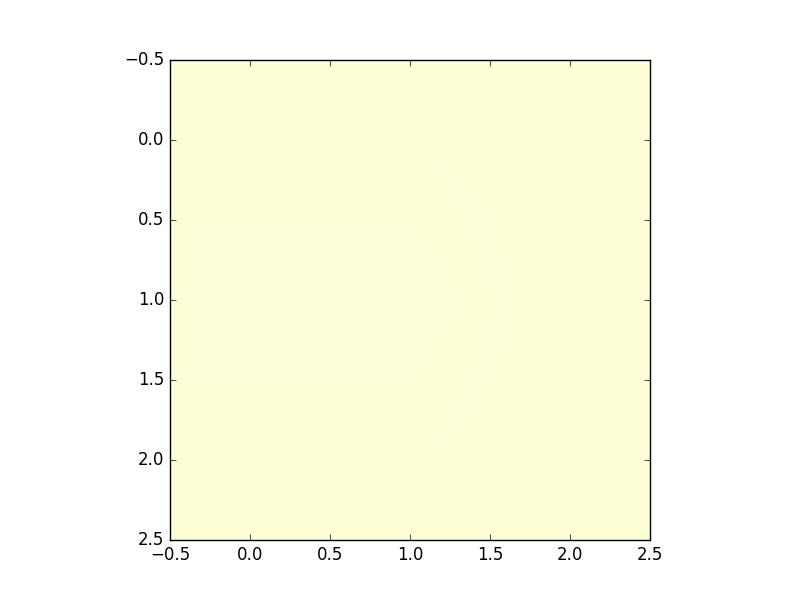
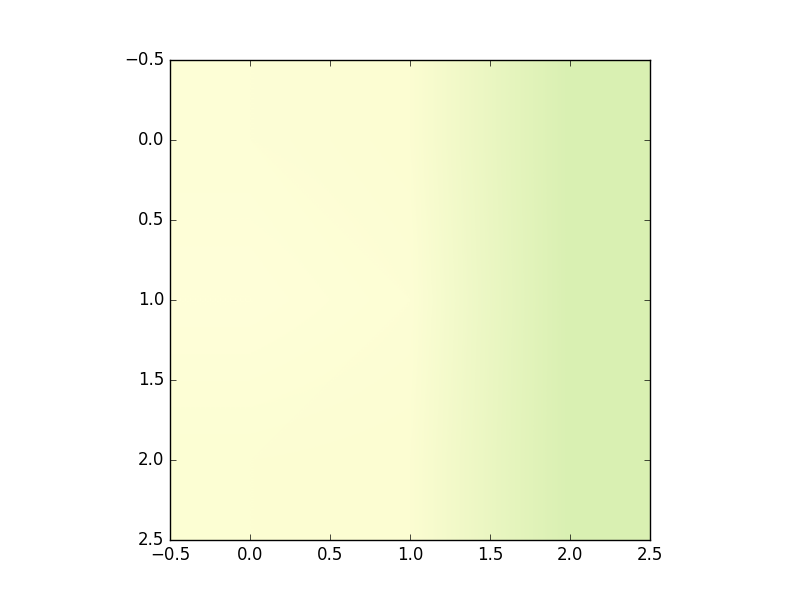
Fixed as per Raoul's email 17 Sept 2016

Changed region(s): [[0.625, 0.09, 0.8125, 0.9]]

diff --git a/simulations/03_02plusSediments/postprocessing/pp.py b/simulations/03_02plusSediments/postprocessing/pp.py
@@ -9,7 +9,7 @@ n3 = 3
 n4 = 3
 nt = 1461
 nz = 90
-nr = 5 # responses
+nr = 4 # responses
 
 a = np.ndarray((n1, n2, n3, n4, nt, nz, nr), dtype=np.float) * np.nan
 
@@ -20,16 +20,16 @@ for i, x1, x2, x3, x4, id in d.itertuples():
     chl = pd.read_csv('../simulations/id/{:02d}/chl.csv.bz2'.format(id), header=None).as_matrix()
     tp = pd.read_csv('../simulations/id/{:02d}/totp.csv.bz2'.format(id), header=None).as_matrix()
     o2a = pd.read_csv('../simulations/id/{:02d}/O2abs.csv.bz2'.format(id), header=None).as_matrix()
-    o2r = pd.read_csv('../simulations/id/{:02d}/O2rel.csv.bz2'.format(id), header=None).as_matrix()
+    # o2r = pd.read_csv('../simulations/id/{:02d}/O2rel.csv.bz2'.format(id), header=None).as_matrix()
     a[x1-1, x2-1, x3-1, x4-1, :, :, 0] = t
     a[x1-1, x2-1, x3-1, x4-1, :, :, 1] = chl
     a[x1-1, x2-1, x3-1, x4-1, :, :, 2] = tp
     a[x1-1, x2-1, x3-1, x4-1, :, :, 3] = o2a
-    a[x1-1, x2-1, x3-1, x4-1, :, :, 4] = o2r
+    # a[x1-1, x2-1, x3-1, x4-1, :, :, 4] = o2r
 
 
 ## maximum chl in last year
-r1 = a[:, :, :, :, (365*3):, 0, 1].max(axis=4)
+r1 = a[:, :, :, :, (365*3+180):(365*3+270), 0, 1].mean(axis=4)
 r1max = r1.max() ; r1min = r1.min()
 
 ## number days surface anoxia in last year
@@ -37,44 +37,65 @@ r2 = (a[:, :, :, :, (365*3):, 0, 3] < 0.01).sum(axis=4)
 r2max = r1.max() ; r2min = r2.min()
 
 
-cm = plt.get_cmap('YlGnBu')
+cmr = plt.get_cmap('Reds')
+normr = matplotlib.colors.Normalize(r1.min(), r1.max(), True)
+
+cmg = plt.get_cmap('Greens')
+normg = matplotlib.colors.Normalize(r2.min(), r2.max(), True)
+
+
 
 ## T, TP, TPR, DOC on CHL, ANOXIA
 ## figures 
-fig = plt.figure() ; ax = fig.add_subplot(111)
-ax.imshow(r1[:, :, 0, 0], vmin=r1min, vmax=r1max, cmap=cm)
-fig.savefig('../figures/T+TP on chl.png')
-fig = plt.figure() ; ax = fig.add_subplot(111)
-ax.imshow(r1[:, 0, :, 0], vmin=r1min, vmax=r1max, cmap=cm)
-fig.savefig('../figures/T+TPR on chl.png')
-fig = plt.figure() ; ax = fig.add_subplot(111)
-ax.imshow(r1[:, 0, 0, :], vmin=r1min, vmax=r1max, cmap=cm)
-fig.savefig('../figures/T+DOC on chl.png')
-fig = plt.figure() ; ax = fig.add_subplot(111)
-ax.imshow(r1[0, :, :, 0], vmin=r1min, vmax=r1max, cmap=cm)
-fig.savefig('../figures/TP+TPR on chl.png')
-fig = plt.figure() ; ax = fig.add_subplot(111)
-ax.imshow(r1[0, :, 0, :], vmin=r1min, vmax=r1max, cmap=cm)
-fig.savefig('../figures/TP+DOC on chl.png')
-fig = plt.figure() ; ax = fig.add_subplot(111)
-ax.imshow(r1[0, 0, :, :], vmin=r1min, vmax=r1max, cmap=cm)
-fig.savefig('../figures/TPR+DOC on chl.png')
+## fig = plt.figure()
 
-fig = plt.figure() ; ax = fig.add_subplot(111)
-ax.imshow(r2[:, :, 0, 0], vmin=r2min, vmax=r2max, cmap=cm)
-fig.savefig('../figures/T+TP on anoxia.png')
-fig = plt.figure() ; ax = fig.add_subplot(111)
-ax.imshow(r2[:, 0, :, 0], vmin=r2min, vmax=r2max, cmap=cm)
-fig.savefig('../figures/T+TPR on anoxia.png')
-fig = plt.figure() ; ax = fig.add_subplot(111)
-ax.imshow(r2[:, 0, 0, :], vmin=r2min, vmax=r2max, cmap=cm)
-fig.savefig('../figures/T+DOC on anoxia.png')
-fig = plt.figure() ; ax = fig.add_subplot(111)
-ax.imshow(r2[0, :, :, 0], vmin=r2min, vmax=r2max, cmap=cm)
-fig.savefig('../figures/TP+TPR on anoxia.png')
-fig = plt.figure() ; ax = fig.add_subplot(111)
-ax.imshow(r2[0, :, 0, :], vmin=r2min, vmax=r2max, cmap=cm)
-fig.savefig('../figures/TP+DOC on anoxia.png')
-fig = plt.figure() ; ax = fig.add_subplot(111)
-ax.imshow(r2[0, 0, :, :], vmin=r2min, vmax=r2max, cmap=cm)
-fig.savefig('../figures/TPR+DOC on anoxia.png')
+fig1, ((a1, a2, a3), (a4, a5, a6), (a7, a8, a9), (a10, a11, a12)) = \
+plt.subplots(nrows=4, ncols=3)
+
+fig1.set_size_inches((8, 10))
+
+a4.imshow(r1[:, :, 0, 0].transpose(), cmap=cmg, norm=normg, origin='lower', interpolation='none')
+# # fig.savefig('../figures/T+TP on chl.png')
+a6.imshow(r1[:, 0, :, 0].transpose(), cmap=cmg, norm=normg, origin='lower', interpolation='none')
+# # fig.savefig('../figures/T+TPR on chl.png')
+a2.imshow(r1[:, 0, 0, :].transpose(), cmap=cmg, norm=normg, origin='lower', interpolation='none')
+# fig.savefig('../figures/T+DOC on chl.png')
+a10.imshow(r1[1, :, :, 0].transpose(), cmap=cmg, norm=normg, origin='lower', interpolation='none')
+# fig.savefig('../figures/TP+TPR on chl.png')
+a8.imshow(r1[1, :, 0, :].transpose(), cmap=cmg, norm=normg, origin='lower', interpolation='none')
+# fig.savefig('../figures/TP+DOC on chl.png')
+a12.imshow(r1[1, 0, :, :].transpose(), cmap=cmg, norm=normg, origin='lower', interpolation='none')
+# fig.savefig('../figures/TPR+DOC on chl.png')
+
+a3.imshow(r2[:, :, 0, 0].transpose(), cmap=cmr, norm=normr, origin='lower', interpolation='none')
+# fig.savefig('../figures/T+TP on anoxia.png')
+a5.imshow(r2[:, 0, :, 0].transpose(), cmap=cmr, norm=normr, origin='lower', interpolation='none')
+# fig.savefig('../figures/T+TPR on anoxia.png')
+a1.imshow(r2[:, 0, 0, :].transpose(), cmap=cmr, norm=normr, origin='lower', interpolation='none')
+# fig.savefig('../figures/T+DOC on anoxia.png')
+a9.imshow(r2[1, :, :, 0].transpose(), cmap=cmr, norm=normr, origin='lower', interpolation='none')
+# fig.savefig('../figures/TP+TPR on anoxia.png')
+a7.imshow(r2[1, :, 0, :].transpose(), cmap=cmr, norm=normr, origin='lower', interpolation='none')
+# fig.savefig('../figures/TP+DOC on anoxia.png')
+a11.imshow(r2[1, 0, :, :].transpose(), cmap=cmr, norm=normr, origin='lower', interpolation='none')
+# fig.savefig('../figures/TPR+DOC on anoxia.png')
+
+a1.text(1.0, -0.7, 'T', ha='center', va='center') ; a1.text(-0.5, 1.0, 'DOC', va='center', ha='right', rotation='vertical')
+a2.text(1.0, -0.7, 'T', ha='center', va='center') ; a2.text(-0.5, 1.0, 'DOC', va='center', ha='right', rotation='vertical')
+a3.text(1.0, -0.7, 'T', ha='center', va='center') ; a3.text(-0.5, 1.0, 'TP', va='center', ha='right', rotation='vertical')
+a4.text(1.0, -0.7, 'T', ha='center', va='center') ; a4.text(-0.5, 1.0, 'TP', va='center', ha='right', rotation='vertical')
+a5.text(1.0, -0.7, 'T', ha='center', va='center') ; a5.text(-0.5, 1.0, 'TPR', va='center', ha='right', rotation='vertical')
+a6.text(1.0, -0.7, 'T', ha='center', va='center') ; a6.text(-0.5, 1.0, 'TPR', va='center', ha='right', rotation='vertical')
+a7.text(1.0, -0.7, 'TP', ha='center', va='center') ; a7.text(-0.5, 1.0, 'DOC', va='center', ha='right', rotation='vertical')
+a8.text(1.0, -0.7, 'TP', ha='center', va='center') ; a8.text(-0.5, 1.0, 'DOC', va='center', ha='right', rotation='vertical')
+a9.text(1.0, -0.7, 'TP', ha='center', va='center') ; a9.text(-0.5, 1.0, 'TPR', va='center', ha='right', rotation='vertical')
+a10.text(1.0, -0.7, 'TP', ha='center', va='center') ; a10.text(-0.5, 1.0, 'TPR', va='center', ha='right', rotation='vertical')
+a11.text(1.0, -0.7, 'TPR', ha='center', va='center') ; a11.text(-0.5, 1.0, 'DOC', va='center', ha='right', rotation='vertical')
+a12.text(1.0, -0.7, 'TPR', ha='center', va='center') ; a12.text(-0.5, 1.0, 'DOC', va='center', ha='right', rotation='vertical')
+
+
+for a in fig1.get_axes():
+    a.get_xaxis().set_visible(False)
+    a.get_yaxis().set_visible(False)
+
+fig1.savefig('../figures/combined.png')

diff --git a/simulations/03_02plusSediments/response_surface_run.m b/simulations/03_02plusSediments/response_surface_run.m
@@ -20,7 +20,8 @@ makeDeposition % creates Deposition
 global sed_par_file
 sed_par_file = 'params.txt';
 
-for r = 1:length(listing)
+% for r = 1:length(listing)
+for r = 39
 
     % skip folders or files starting with a dot '.'
     if listing(r).name(1) == '.'
@@ -65,17 +66,18 @@ for r = 1:length(listing)
                           Phys_par,Phys_par_range,Phys_par_names,...
                           Bio_par,Bio_par_range,Bio_par_names, ...
                           Deposition);
+
+        csvwrite([p2, '/t.csv'], Tzt')
+        csvwrite([p2, '/chl.csv'], Chlzt')  
+        csvwrite([p2, '/O2abs.csv'], O2_sat_abst')
+        % csvwrite([p2, '/O2rel.csv'], O2_sat_relt')
+        csvwrite([p2, '/totp.csv'], (Czt + Pzt + Chlzt + PPzt + DOPzt)')
         
         catch me
             disp('model crushing; skipping')
             
         end
         
-        csvwrite([p2, '/t.csv'], Tzt')
-        csvwrite([p2, '/chl.csv'], Chlzt')  
-        csvwrite([p2, '/O2abs.csv'], O2_sat_abst')
-        csvwrite([p2, '/O2rel.csv'], O2_sat_relt')
-        csvwrite([p2, '/totp.csv'], (Czt + Pzt + Chlzt + PPzt + DOPzt)')
         
     end % if else
 end % for
